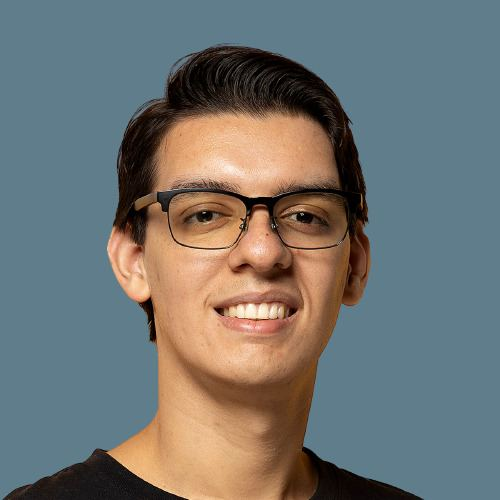
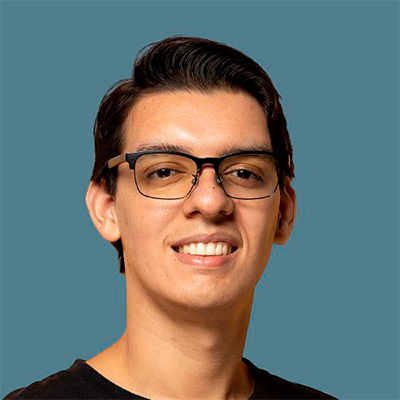
wip: fixes

diff --git a/src/components/eth-cr-day/Community.jsx b/src/components/eth-cr-day/Community.jsx
@@ -1,9 +1,26 @@
-import { Text, Box, Image, Flex, List, ListItem } from "@chakra-ui/react";
+import {
+  Text,
+  Box,
+  Image,
+  Flex,
+  UnorderedList,
+  ListItem,
+} from "@chakra-ui/react";
+
+import BackgroundWrapperDay from "@/components/BackgroundWrapperDay";
 
 const Community = () => {
   return (
-    <Box pt={10} backgroundColor="#F7FAFC">
-      <Text mb={10} variant={["h3", "h2", "h1"]} align="center">
+    <Flex
+      justify="center"
+      pt={30}
+      gap={[30, 30, 30, 30, 134]}
+      direction="column"
+      alignItems="center"
+      backgroundColor="#F7FAFC"
+      px={["20px", "20px", "20px", "20px", "70px"]}
+    >
+      <Text variant={["h3", "h2", "h1"]} align="center">
         Nos reuniremos como{" "}
         <Text as="span" color="red">
           comunidad
@@ -23,7 +40,7 @@ const Community = () => {
             minW="360px"
           />
         </Box>
-        <Flex mb={10} mt={14} direction="column">
+        <Flex mb={10} direction="column">
           <Box align="center">
             <Text
               fontSize="3xl"
@@ -48,7 +65,12 @@ const Community = () => {
               9:00-17:00
             </Text>
           </Box>
-          <Text maxW={500} my="25px" variant="body" align="center">
+          <Text
+            maxW={500}
+            my="25px"
+            variant="body"
+            align={["left", "left", "left", "left", "center"]}
+          >
             Ethereum Costa Rica Day será una jornada repleta de actividades,
             incluyendo charlas, talleres, conferencias y espacios dedicados al
             networking. Este evento tiene como objetivo introducir a nuevos
@@ -59,17 +81,25 @@ const Community = () => {
           <Text maxW={500} my="25px" variant="body" align="left">
             <strong>Algunas de los temas que tocaremos serán:</strong>
           </Text>
-          <List>
-            <ListItem>Uso de wallets</ListItem>
-            <ListItem>NFTs</ListItem>
+          <UnorderedList>
             <ListItem>
-              Desarrollo en lenguajes como Solidity, Cairo, etc.
+              <Text variant="body">Uso de wallets</Text>
             </ListItem>
-            <ListItem>Zero Knowledge</ListItem>
-          </List>
+            <ListItem>
+              <Text variant="body">NFTs</Text>
+            </ListItem>
+            <ListItem>
+              <Text variant="body">
+                Desarrollo en lenguajes como Solidity, Cairo, etc.
+              </Text>
+            </ListItem>
+            <ListItem>
+              <Text variant="body">Zero Knowledge</Text>
+            </ListItem>
+          </UnorderedList>
         </Flex>
       </Flex>
-    </Box>
+    </Flex>
   );
 };
 

diff --git a/src/components/eth-cr-day/BannerDay.tsx b/src/components/eth-cr-day/BannerDay.tsx
@@ -1,15 +1,23 @@
 import { Flex, Text, Center, Button, useMediaQuery } from "@chakra-ui/react";
+import Image from "next/image";
+
+import resizedLogo from "../../../public/eth-cr-day-resized.svg";
 import EthCrLogo from "../eth-cr-logo";
 import EthCrDayLogo from "../eth-cr-day-logo";
 import ButtonDonations from "../ButtonDonations";
 
 const Banner = () => {
   const [isLargerThan1090] = useMediaQuery("(min-width: 1090px)");
+  const [isLargerThan450] = useMediaQuery("(min-width: 450px)");
 
   return (
-    <Flex direction="column" justify="space-evenly" w="full">
-      <Center py="80px">
-        <EthCrDayLogo />
+    <Flex direction="column" justify="space-evenly" w="full" gap={45}>
+      <Center>
+        {isLargerThan450 ? (
+          <EthCrDayLogo />
+        ) : (
+          <Image src={resizedLogo} alt="Ethereum Costa Rica Day" />
+        )}
       </Center>
       <Flex
         direction={isLargerThan1090 ? "row" : "column"}
@@ -18,13 +26,13 @@ const Banner = () => {
         alignItems="center"
         maxW="1376px"
         m="auto"
+        gap={["10px", "10px", "70px"]}
       >
         <Text
           as="b"
           align="center"
           fontSize={{ sm: "subtitle", md: "xl" }}
-          mx={{ sm: 2, md: 8 }}
-          my={4}
+          my={0}
         >
           Una iniciativa promovida y desarrollada por
         </Text>
@@ -34,22 +42,15 @@ const Banner = () => {
           align="center"
           fontSize={{ sm: "subtitle", md: "xl" }}
           mx={{ sm: 2, md: 8 }}
-          my={4}
         >
           trabajando con amor para la comunidad
         </Text>
       </Flex>
-      <Flex
-        direction="row"
-        alignItems="center"
-        justifyContent="center"
-        mt="78px"
-        mb="94px"
-        gap="60px"
-      >
+      <Flex direction="row" alignItems="center" justifyContent="center">
         <ButtonDonations />
         <Button
           width="160px"
+          ml={45}
           as="a"
           href="https://www.checkmyticket.xyz/event/9bf60e16-47e9-4823-a10a-2814fb21aa8a"
           variant="primary"
@@ -61,7 +62,7 @@ const Banner = () => {
         <Text
           fontSize={{ sm: "xl", md: "3xl" }}
           height="114px"
-          maxW="90%"
+          fontWeight={700}
           textAlign="center"
         >
           Aprende, utiliza e involucrate en el mundo blockchain y web3, la

diff --git a/src/components/EventTitle.tsx b/src/components/EventTitle.tsx
@@ -1,9 +1,9 @@
 import {
   Text,
-  GridItem,
   Flex,
   chakra,
   shouldForwardProp,
+  useMediaQuery,
 } from "@chakra-ui/react";
 
 const Elipse = chakra("div", {
@@ -15,8 +15,8 @@ const Elipse = chakra("div", {
   baseStyle: {
     shadow: "sm",
     rounded: "full",
-    width: "30px",
-    height: "30px",
+    width: "40px",
+    height: "40px",
   },
 });
 
@@ -26,39 +26,38 @@ interface EventTitleProps {
 }
 
 const EventTitle = ({ title, active = false }: EventTitleProps) => {
+  const [isLargerThan992] = useMediaQuery("(min-width: 992px)");
+
   return (
     <Flex
-      width="100%"
-      h="4"
-      paddingRight={["15px", "15px", "15px", "50px", "50px"]}
+      id="some-id"
+      borderRight={[0, 0, 0, "2px solid gray", "2px solid gray"]}
+      borderColor="gray.400"
+      alignItems="center"
+      flexDirection="row"
+      justifyContent={["center", "center", "space-between", "space-between"]}
+      minW={[0, 0, 0, "100%"]}
+      w="40px"
+      minH="40px"
     >
-      <Flex
-        width="100%"
-        borderRight={[0, 0, 0, "2px solid gray", "2px solid gray"]}
-        borderColor="gray.400"
-        alignItems="center"
-        justifyContent="space-between"
-        height={20}
-      >
+      {isLargerThan992 && (
         <Text
           color={active ? "red.500" : "blue.1000"}
           fontSize={["xs", "sm", "xl", "2lg", "3xl"]}
           fontWeight={700}
           minWidth={["120px", "120px", "120px", "auto", "auto"]}
-          paddingRight={["15px", "15px", "15px", "50px", "50px"]}
           align="center"
+          mb={5}
         >
           {title}
         </Text>
-        <Elipse
-          display={["none", "none", "none", "block", "block"]}
-          bgColor={active ? "red.500" : "gray.400"}
-          minWidth={active ? "30px" : "20px"}
-          width={active ? "30px" : "20px"}
-          height={active ? "30px" : "20px"}
-          marginRight={active ? "-15.5px" : "-10.5px"}
-        />
-      </Flex>
+      )}
+      <Elipse
+        bgColor={active ? "red.500" : "gray.400"}
+        width={active ? "30px" : "25px"}
+        height={active ? "30px" : "25px"}
+        marginRight={active ? "-15.5px" : "-13.5px"}
+      />
     </Flex>
   );
 };

diff --git a/src/components/Timeline.tsx b/src/components/Timeline.tsx
@@ -18,7 +18,7 @@ const Timeline = () => {
       >
         <Flex
           py={["60px", "135px"]}
-          px={["30px", "70px"]}
+          px={["10px", "10px", "70px"]}
           direction="column"
           width="full"
           alignItems="center"
@@ -42,24 +42,24 @@ const Timeline = () => {
             width="full"
             alignItems="center"
             justifyContent="center"
-            mb="32px"
-            direction="row"
+            direction={["column", "column", "column", "row"]}
           >
             <Flex
               width={["100%", "100%", "100%", "50%", "50%"]}
               direction={["row", "row", "row", "column", "column"]}
-              gap={[0, 0, 0, 10, 10]}
-              height={["200px", "200px", "200px", "auto", "auto"]}
+              gap={[2, 2, 0]}
+              flexWrap={["wrap", "wrap", "wrap", "nowrap", "nowrap"]}
               justifyContent="center"
-              flexWrap="wrap"
-              marginBottom={["40px", "40px", "40px", "0px", "0px"]}
             >
               {EVENTS.map((event, index) => (
                 <Flex
                   onClick={() => setSelectedEvent(index)}
                   cursor="pointer"
                   key={index + event.group}
-                  flexWrap="wrap"
+                  justifyContent="center"
+                  alignItems="center"
+                  maxW={["40px", "40px", "40px", "100%"]}
+                  width="100%"
                 >
                   <EventTitle
                     title={event.group}

diff --git a/src/components/eth-cr-day/speakers/Speakers.tsx b/src/components/eth-cr-day/speakers/Speakers.tsx
@@ -78,13 +78,12 @@ const Speakers = () => {
             alignItems="center"
             px={{ sm: 5, md: 10 }}
           >
-            <Box mb={10} boxSize={["xs", "sm", "sm"]}>
-              <Image
-                borderRadius="3xl"
-                src={`./speakers/${speaker.image}`}
-                alt="Speaker"
-              />
-            </Box>
+            <Image
+              borderRadius="100%"
+              src={`./speakers/${speaker.image}`}
+              alt="Speaker"
+              maxW={["200px", "200px", "200px", "400px", "400px"]}
+            />
             <Flex
               direction="column"
               maxW="700px"

diff --git a/src/pages/day.tsx b/src/pages/day.tsx
@@ -12,12 +12,12 @@ import { Box } from "@chakra-ui/react";
 
 export default function EthCrDay() {
   return (
-    <Box p={4}>
+    <Box>
       <Bot />
       <BackgroundWrapperDay>
         <Nav />
+        <BannerDay />
       </BackgroundWrapperDay>
-      <BannerDay />
       <Community />
       <Speakers />
       <Timeline />

diff --git a/src/components/BackgroundWrapperDay.tsx b/src/components/BackgroundWrapperDay.tsx
@@ -8,8 +8,7 @@ interface Props {
 const BackgroundWrapperDay = ({ children }: Props) => {
   return (
     <Flex
-      paddingTop={[1, 2, 10]}
-      px={{ sm: 15, md: 30, lg: 90 }}
+      px={["20px", "20px", "20px", "20px", "70px"]}
       direction="column"
       justifyContent="space-evenly"
     >

diff --git a/src/components/ButtonDonations.jsx b/src/components/ButtonDonations.jsx
@@ -27,6 +27,7 @@ const ButtonDonations = () => {
         colorScheme="red"
         variant="outline"
         onClick={handleButtonClick}
+        w="142px"
       >
         {hasCopied ? "Copiado!" : "Donar con crypto"}
       </Button>
